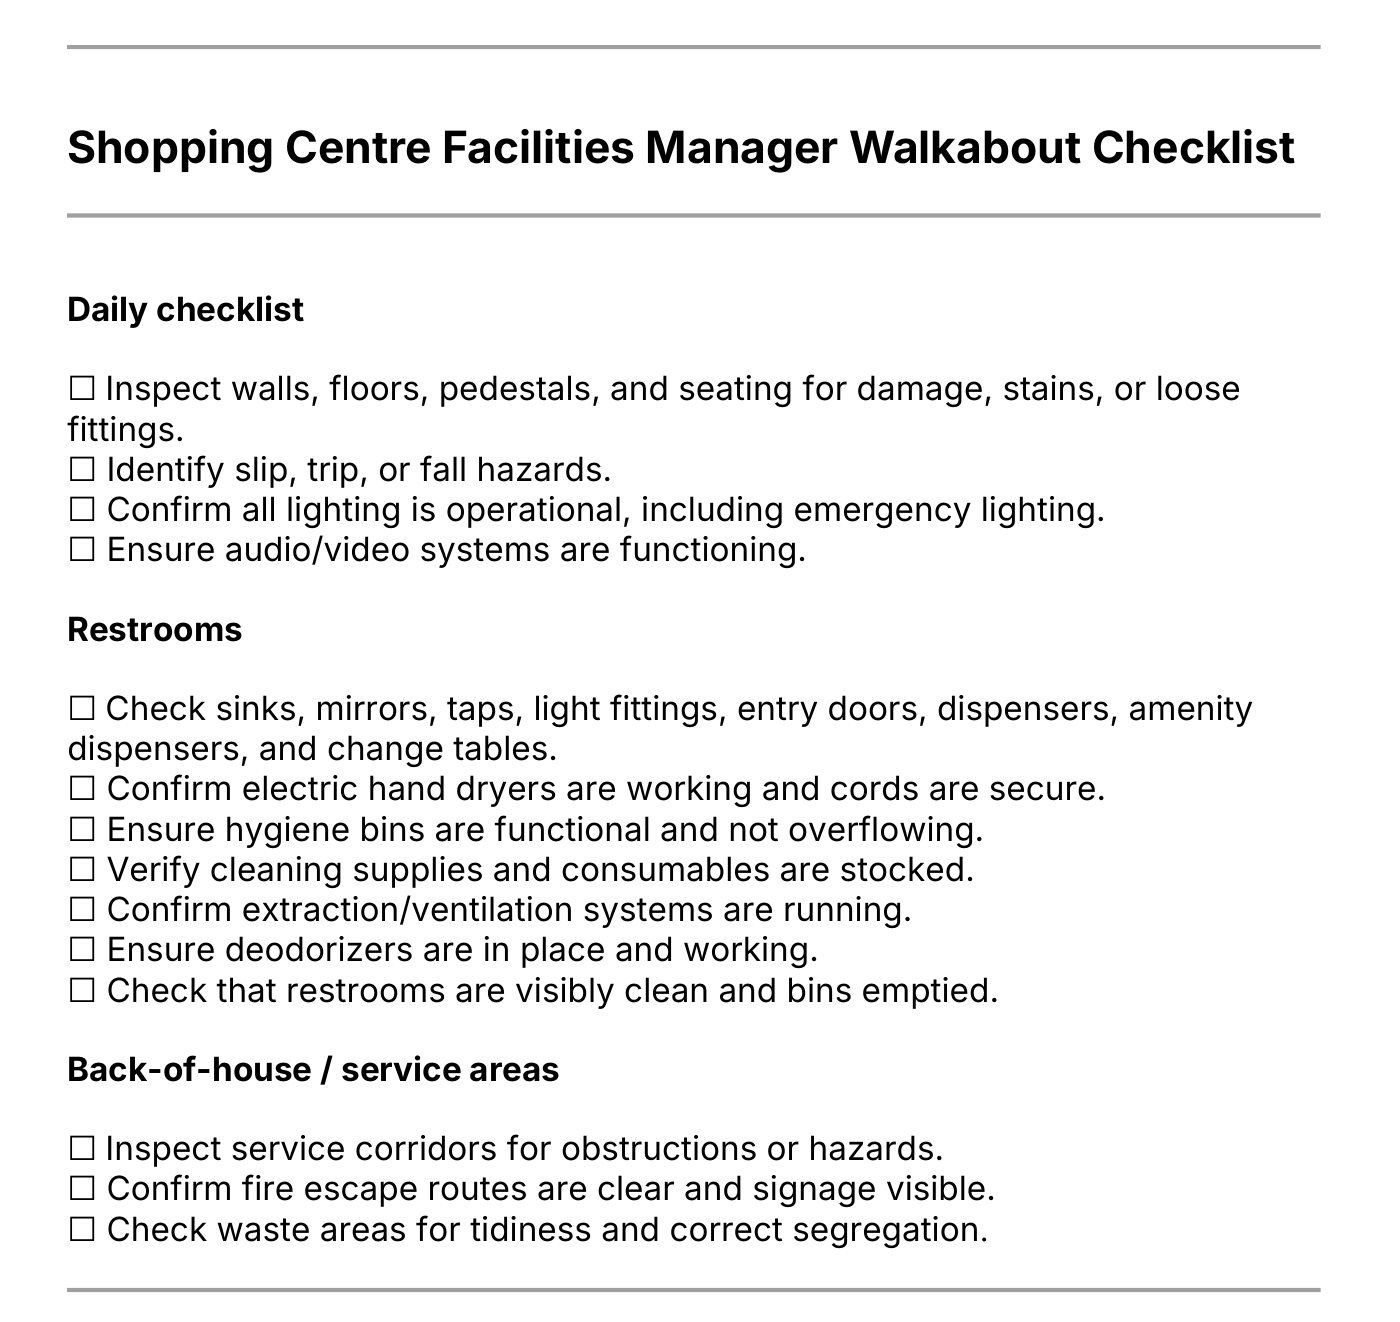
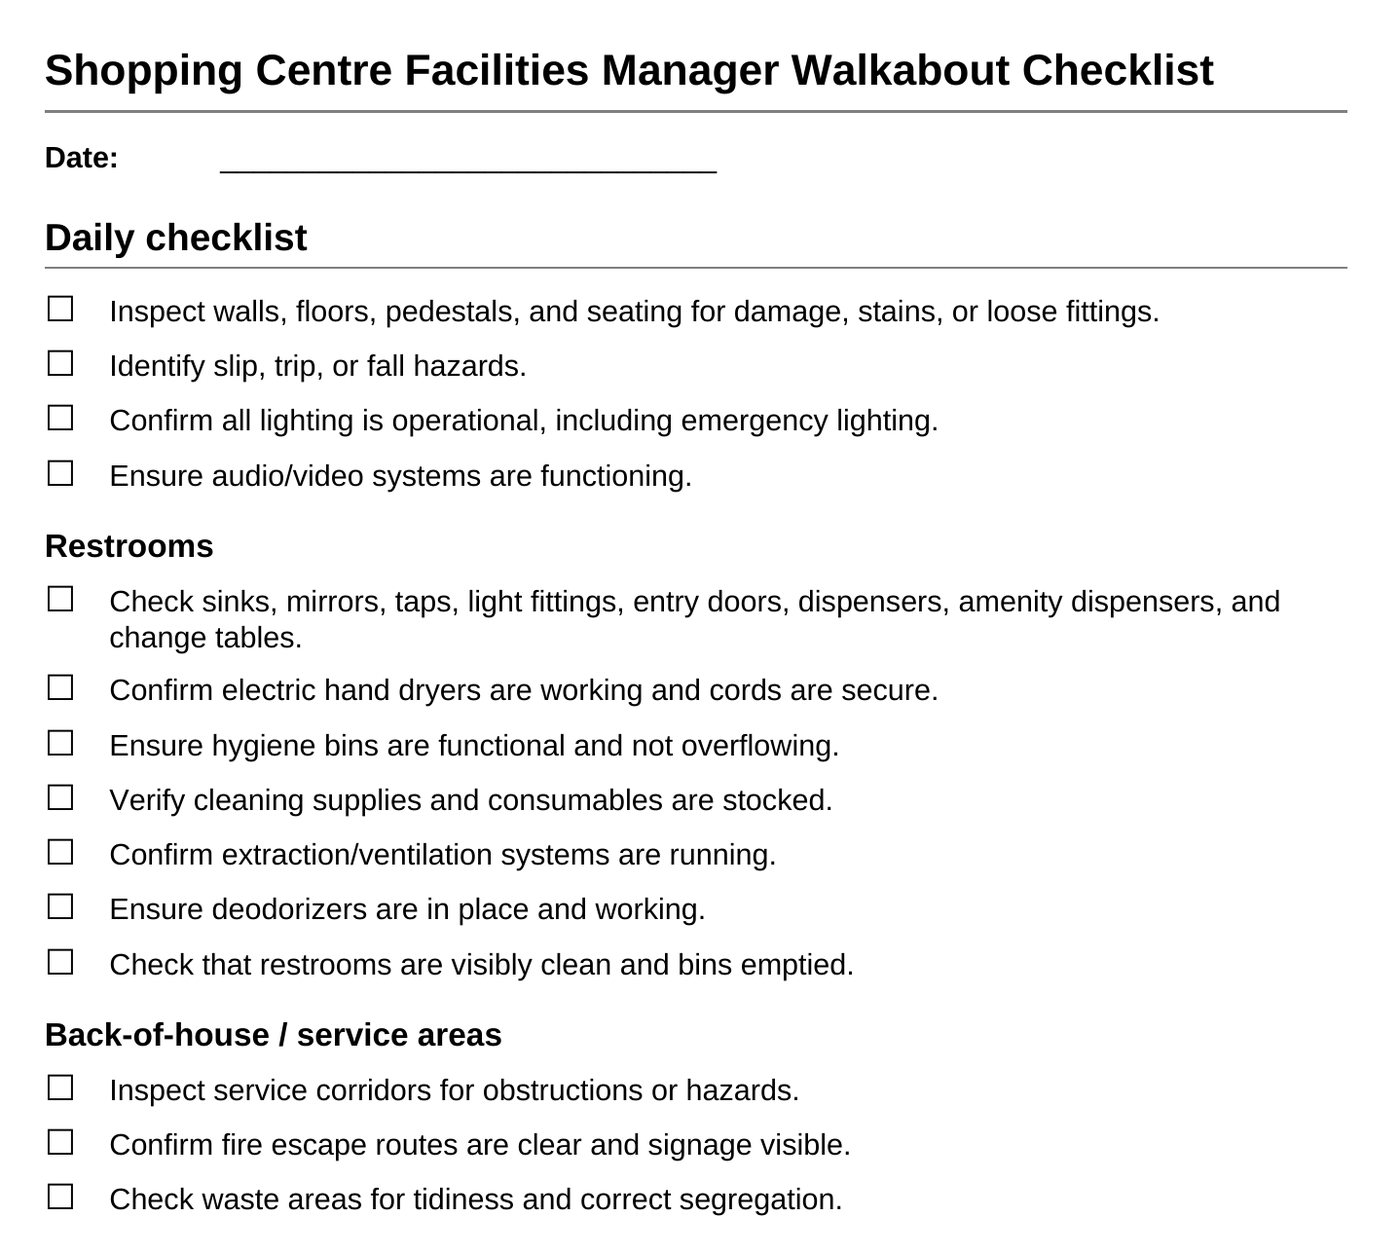
FM Checklist: tidy layout, consistent headings, add date lines
Claude-Session: https://claude.ai/code/session_01GLjfLaBjwmsiU4PVSvkPXF

Changed region(s): [[0.0307, 0.0311, 0.9214, 0.9952]]

diff --git a/lib/resources.ts b/lib/resources.ts
@@ -78,9 +78,9 @@ export const freeResources: FreeResource[] = [
     description:
       'FM is short for Facilities Management. Well-organised Shopping Centre Managers meet with their Facilities (Operations) Managers once a week. This list is a quick reference guide and can also serve as a meeting agenda.',
     intendedUse:
-      'Covers daily, weekly and monthly walkabout checks. Available in MS Word format, so you can adapt it to your centre.',
+      'Covers daily, weekly and monthly walkabout checks, with a space for the date on each page. Available in MS Word format, so you can adapt it to your centre.',
     thumbnail: '/resources/fm-checklist-preview.jpg',
-    thumbnailAlt: 'The top of the FM Checklist, showing the daily, restroom and back-of-house checks',
+    thumbnailAlt: 'The FM Checklist, with a date line and the daily, restroom and back-of-house checks',
     fileType: 'DOCX',
     fileUrl: '/resources/fm-checklist.docx',
   },
